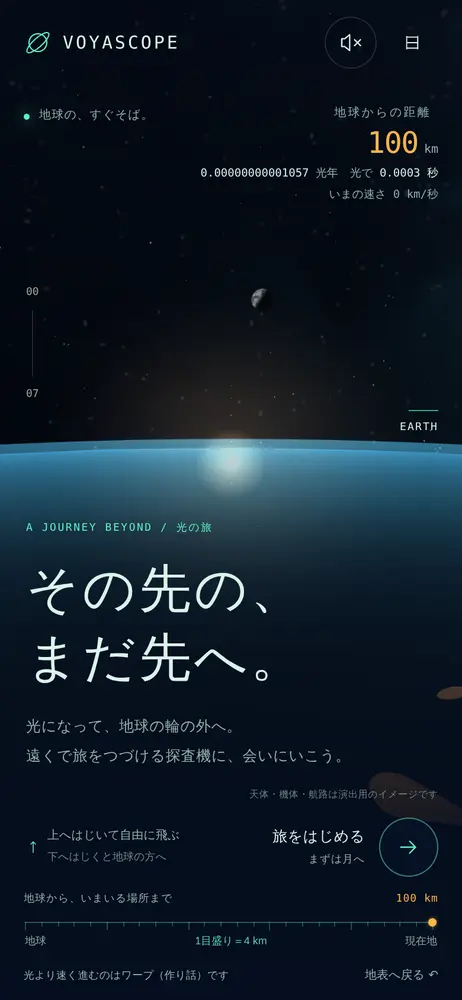
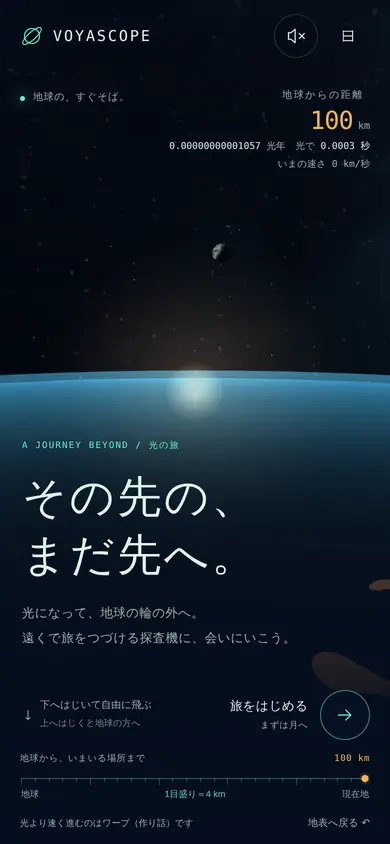
遠くを見る部屋：飛ぶスワイプの向きを逆に（下へスワイプで遠くへ・上へで地球の方へ）
オーナー（2026-10-04）：「スワイプの方向を逆にしたいな」→ 飛ぶ方向。

- 本体 v0（web/js/far/fly.js・room.js）と合わせた試作の両方。指でもマウスのドラッグでも同じ向き
- 案内の文・矢印と読み上げの説明も直した（スマホ：「↓ 下へスワイプして飛ぶ」「下へはじいて自由に飛ぶ」）
- PC のホイール（奥へ回すと遠くへ）と ↑↓ キーはそのまま。Mac のトラックパッド（ナチュラル）では、2本の指を下へで遠くへ＝スマホと同じ向き
- そばで観測中のなぞり（まわりから眺める）はそのまま
- 試作：下へなぞったときにページの引き下ろしが起きないよう overscroll-behavior: none
- 確かめたこと：スマホ 390×844・PC 1440×900 で、下へなぞると遠くへ・上へで地球の方へ（本体 v0 と試作）、ホイールを奥へで遠くへ、ウェッブのそばでは飛ばない。テスト 86件・検証・読み込み量も通る。エラーなし
- 記録：タスク013・far-room-feel.md §7-9。写真：far-room/sp-2-start.png・far-room-visual/merged-sp-1-start.webp を差し替え

Claude-Session: https://claude.ai/code/session_018QcvrPpxiBmPj3b7sKfVgy

diff --git a/docs/design/far-room-visual-merged.html b/docs/design/far-room-visual-merged.html
@@ -25,7 +25,7 @@
   color-scheme: dark;
 }
 * { box-sizing: border-box; }
-html { background: var(--navy-900); }
+html { background: var(--navy-900); overscroll-behavior: none; } /* 下へなぞって飛ぶので、ページの引き下ろし（再読み込み）を起こさない */
 body { margin: 0; background: var(--navy-900); color: var(--text); font-family: var(--body); font-size: 14px; line-height: 1.6; -webkit-text-size-adjust: 100%; }
 button, a { -webkit-tap-highlight-color: transparent; touch-action: manipulation; }
 button { font: inherit; color: inherit; cursor: pointer; min-height: 44px; min-width: 44px; padding: 0; border: 0; background: none; }
@@ -340,7 +340,7 @@ dialog .sub { margin: 0 0 14px; font-size: 12px; color: var(--dim); }
 <main>
   <section id="journey" class="journey" data-mode="intro" aria-labelledby="page-title">
     <h1 id="page-title" class="sr-only">遠くを見る部屋（合わせた試作）</h1>
-    <div id="viewport" class="viewport" tabindex="0" role="group" aria-label="宇宙を飛ぶ画面。上へスワイプか ↑ キーで遠くへ、下へスワイプか ↓ キーで地球の方へ。Home キーで地表へ戻る" aria-describedby="warp-note">
+    <div id="viewport" class="viewport" tabindex="0" role="group" aria-label="宇宙を飛ぶ画面。下へスワイプか ↑ キーで遠くへ、上へスワイプか ↓ キーで地球の方へ。Home キーで地表へ戻る" aria-describedby="warp-note">
       <canvas id="space" aria-hidden="true"></canvas>
     </div>
     <div class="vignette" aria-hidden="true"></div>
@@ -393,7 +393,7 @@ dialog .sub { margin: 0 0 14px; font-size: 12px; color: var(--dim); }
     <div class="travel-label" id="travel-label" aria-hidden="true"><span id="travel-word">地球を、離れる。</span><small id="travel-sub">NEXT / 月</small></div>
 
     <div class="journey-controls">
-      <p class="interaction-hint" id="hint"><svg class="i" viewBox="0 0 24 24" aria-hidden="true"><path d="M12 21V3m-4 4 4-4 4 4"/></svg><span id="hint-text">上へはじいて自由に飛ぶ<small>下へはじくと地球の方へ</small></span></p>
+      <p class="interaction-hint" id="hint"><svg class="i" viewBox="0 0 24 24" aria-hidden="true"><path id="hint-arrow" d="M12 3v18m-4-4 4 4 4-4"/></svg><span id="hint-text">下へはじいて自由に飛ぶ<small>上へはじくと地球の方へ</small></span></p>
       <button type="button" id="primary" class="primary">
         <span class="primary-text"><span id="primary-label">旅をはじめる</span><small id="primary-sub">まずは月へ</small></span>
         <span class="arrow" aria-hidden="true"><svg class="i" viewBox="0 0 24 24"><path d="M4 12h15m-6-6 6 6-6 6"/></svg></span>
@@ -691,7 +691,7 @@ const journey = $("journey"), viewport = $("viewport"), canvas = $("space");
 const reduceQuery = matchMedia("(prefers-reduced-motion: reduce)");
 let reduce = reduceQuery.matches;
 const coarse = matchMedia("(pointer: coarse)").matches;
-if (!coarse) $("hint-text").innerHTML = "ホイールか ↑ キーで自由に飛ぶ<small>↓ キーで地球の方へ。Home で地表へ</small>";
+if (!coarse) { $("hint-text").innerHTML = "ホイールか ↑ キーで自由に飛ぶ<small>↓ キーで地球の方へ。Home で地表へ</small>"; $("hint-arrow").setAttribute("d", "M12 21V3m-4 4 4-4 4 4"); }
 $("look-hint-text").textContent = coarse ? "指でなぞって、まわりから眺める" : "ドラッグか ← → キーで、まわりから眺める";
 const say = (t) => { $("announcer").textContent = t; };
 
@@ -1907,7 +1907,8 @@ viewport.addEventListener("pointermove", (e) => {
     wake();
     return;
   }
-  const dy = pointer.y - e.clientY; pointer.y = e.clientY;
+  // 下へなぞると遠くへ（宇宙を手前へ引き寄せる向き。2026-10-04 オーナー）。上へなぞると地球の方へ
+  const dy = e.clientY - pointer.y; pointer.y = e.clientY;
   push(dy * TUNE.SWIPE_GAIN);
 });
 const endDrag = (e) => { if (pointer && pointer.id === e.pointerId) { pointer = null; wake(); } };

diff --git a/web/js/far/fly.js b/web/js/far/fly.js
@@ -1,5 +1,5 @@
 // 遠くを見る部屋：光になって飛ぶ（体感の案 D。docs/design/far-room-feel.md）
-// 位置は「地球からの距離の桁」（log10 km）で持つ。上へスワイプで遠くへ、下へスワイプで戻る。
+// 位置は「地球からの距離の桁」（log10 km）で持つ。下へスワイプで遠くへ、上へスワイプで戻る（2026-10-04 オーナー）。
 // はじく強さで速さが変わり、約1秒で止まる（試作と同じ）。光より速く進むのはワープ（作り話）で、
 // 右上の「光で◯秒」が本当の光の速さ。動きを減らす設定では、星を流さず、押した場所へすぐ移る
 import { C_KM_S, LIGHT_DAY_KM, kmFullJa, kmShortJa, lightTimeJa, lightYearsJa } from "./distance.js";
@@ -46,7 +46,7 @@ export function createFly(root, { stops: initialStops, reduceMotion = false, coa
       <span class="fly-sub mono" data-hud="lt"></span>
       <span class="fly-warp mono" data-hud="warp">停止中</span>
     </div>
-    <div class="fly-hint" aria-hidden="true">${coarse ? "↑ 上へスワイプして飛ぶ" : "↑ ホイールか ↑ キーで飛ぶ"}</div>
+    <div class="fly-hint" aria-hidden="true">${coarse ? "↓ 下へスワイプして飛ぶ" : "↑ ホイールか ↑ キーで飛ぶ"}</div>
     <div class="fly-card" data-off="true" aria-live="polite"></div>`;
   const cv = root.querySelector("canvas");
   const ctx = cv.getContext("2d");
@@ -114,7 +114,7 @@ export function createFly(root, { stops: initialStops, reduceMotion = false, coa
   });
   root.addEventListener("pointermove", (e) => {
     if (!drag) return;
-    const dy = drag.y - e.clientY;
+    const dy = e.clientY - drag.y; // 下へなぞると遠くへ（宇宙を手前へ引き寄せる向き）
     drag.y = e.clientY;
     push(dy * 0.004);
   });

diff --git a/web/js/far/room.js b/web/js/far/room.js
@@ -67,7 +67,7 @@ export async function createFarRoom({ events = [], onClose = () => {} } = {}) {
     <div class="far-scroll">
       <section class="far-fly-wrap" aria-labelledby="far-fly-title">
         <h3 id="far-fly-title" class="visually-hidden">光になって飛ぶ</h3>
-        <div class="far-fly" tabindex="0" aria-label="遠くへ飛ぶ画面。上へスワイプか ↑ キーで遠くへ、下へスワイプか ↓ キーで地球へ戻る。Home キーで地表へ"></div>
+        <div class="far-fly" tabindex="0" aria-label="遠くへ飛ぶ画面。下へスワイプか ↑ キーで遠くへ、上へスワイプか ↓ キーで地球へ戻る。Home キーで地表へ"></div>
         <div class="far-fly-foot">
           <button type="button" class="btn" data-far-reset>地表へ戻る</button>
           <button type="button" class="btn" data-far-ladder>↓ 距離のはしご（一覧）</button>

diff --git a/docs/roadmap.md b/docs/roadmap.md
@@ -2,7 +2,7 @@
 
 > **いつでもここを見れば、どこまで進んだか・次に何をするかが分かる**ように保つ。
 > タスクが終わるたびに Claude Code がチェックを付けて更新する（PR に含める）。
-> 最終更新：2026-10-04（JPL SSD から返事：探査機の距離（Horizons の計算値）を、丸めた値・取得日・出典つきで出してよい。出典は SSD の形、軌道のもとのデータを出した機関（ESA・JAXA など）も示す。取り方は Fair Use に合わせ、1回で先の数週間ぶんをもらって週1回だけ取り直す案に。合わせた試作：スマホで名前・英名に模型や黄色い線が重ならないように直し、そばで観測中はなぞって模型のまわりから眺められるようにした（離れるときは「その先へ」が点滅）。合わせた試作の模型を Codex の新しい模型（公式を参考にしたイメージ）に入れ替え、光と影を自然にし、ジュノー（木星でスイングバイ）を足した。PC の一覧のタブを、文字を大きくしても1行に入るように＝PR #32。C17 を確認：ジュノーは運用中（2026年5月1日に衛星テーベを撮影）→ カードを足して10機に。C18 を確認：公式の3Dモデルは NASA の6つ（7機ぶん）だけで、1機 3〜9MB。ESA・JAXA は作り替えに許可が要る → 10機とも Codex にコードの模型を頼む依頼文を作った（オーナーの判断待ち）。遠くを見る部屋の見た目の合わせた試作：操作感は Claude 案、表示は Codex 案、天体のまわりでスイングバイする航路、地球は出発のあとうしろの窓で見る。出発は日本の上空の夜からに決定。探査機の公式3Dモデルの有無と利用条件を C18 でチャッピーに依頼（使えなければ Codex に模型を頼む）。本体に入れるかはオーナーの判断待ち。2026-10-03：遠くを見る部屋 v0＝タスク013：入口「遠くを見る」、光になって飛ぶ画面と距離のはしご、探査機9機のカード（出典つき）。月・太陽・惑星までの距離はブラウザで計算し、ウェッブ・ニュー・ホライズンズは公式の値。JPL の許可が要る4機の距離と、ジュノー（C17）はあとで。C15 を確認：今日の地球の画像（GIBS）と宇宙天気（Kp）はブラウザから直接読んでよい。C14 を確認：探査機の距離（JPL Horizons）を自分のサイトに出すには JPL の許可が要る → オーナーが問い合わせ済み、返事待ち。ISS の乗員を実データに＝C10：3チーム・11人のカード。帰還予定が月まで・年までのときの滞在の判定を直した。スマホで軽くする＝タスク012：読み込みの順番を直し、遅い4G で「観測を開始」まで 7.9〜8.1秒 → 6.2〜6.5秒。読み込み量の上限を CI で守る。配色はいまのまま。2026-10-02：地球の上に表示切替（すべて／日本のみ／衛星のみ／打ち上げ予定のみ）を追加＝タスク011。遠くを見る部屋の体感の案と試作を追加。公式ページの見張りの半自動化と Cloudflare への移行を M9 として追加（案の今日の地球・宇宙天気・宇宙にいる人は M10〜M12 に）。順番を M6 → M7 v0（遠くを見る部屋）→ M9 Cloudflare の検討に。世界の打ち上げを「参考」の印つきで追加＝M4 v1。目標と次の段階の案 [`docs/world-plan.md`](world-plan.md)）
+> 最終更新：2026-10-04（JPL SSD から返事：探査機の距離（Horizons の計算値）を、丸めた値・取得日・出典つきで出してよい。出典は SSD の形、軌道のもとのデータを出した機関（ESA・JAXA など）も示す。取り方は Fair Use に合わせ、1回で先の数週間ぶんをもらって週1回だけ取り直す案に。合わせた試作：スマホで名前・英名に模型や黄色い線が重ならないように直し、そばで観測中はなぞって模型のまわりから眺められるようにした（離れるときは「その先へ」が点滅）。飛ぶスワイプの向きを逆にした（下へスワイプで遠くへ。本体 v0 と試作の両方）。合わせた試作の模型を Codex の新しい模型（公式を参考にしたイメージ）に入れ替え、光と影を自然にし、ジュノー（木星でスイングバイ）を足した。PC の一覧のタブを、文字を大きくしても1行に入るように＝PR #32。C17 を確認：ジュノーは運用中（2026年5月1日に衛星テーベを撮影）→ カードを足して10機に。C18 を確認：公式の3Dモデルは NASA の6つ（7機ぶん）だけで、1機 3〜9MB。ESA・JAXA は作り替えに許可が要る → 10機とも Codex にコードの模型を頼む依頼文を作った（オーナーの判断待ち）。遠くを見る部屋の見た目の合わせた試作：操作感は Claude 案、表示は Codex 案、天体のまわりでスイングバイする航路、地球は出発のあとうしろの窓で見る。出発は日本の上空の夜からに決定。探査機の公式3Dモデルの有無と利用条件を C18 でチャッピーに依頼（使えなければ Codex に模型を頼む）。本体に入れるかはオーナーの判断待ち。2026-10-03：遠くを見る部屋 v0＝タスク013：入口「遠くを見る」、光になって飛ぶ画面と距離のはしご、探査機9機のカード（出典つき）。月・太陽・惑星までの距離はブラウザで計算し、ウェッブ・ニュー・ホライズンズは公式の値。JPL の許可が要る4機の距離と、ジュノー（C17）はあとで。C15 を確認：今日の地球の画像（GIBS）と宇宙天気（Kp）はブラウザから直接読んでよい。C14 を確認：探査機の距離（JPL Horizons）を自分のサイトに出すには JPL の許可が要る → オーナーが問い合わせ済み、返事待ち。ISS の乗員を実データに＝C10：3チーム・11人のカード。帰還予定が月まで・年までのときの滞在の判定を直した。スマホで軽くする＝タスク012：読み込みの順番を直し、遅い4G で「観測を開始」まで 7.9〜8.1秒 → 6.2〜6.5秒。読み込み量の上限を CI で守る。配色はいまのまま。2026-10-02：地球の上に表示切替（すべて／日本のみ／衛星のみ／打ち上げ予定のみ）を追加＝タスク011。遠くを見る部屋の体感の案と試作を追加。公式ページの見張りの半自動化と Cloudflare への移行を M9 として追加（案の今日の地球・宇宙天気・宇宙にいる人は M10〜M12 に）。順番を M6 → M7 v0（遠くを見る部屋）→ M9 Cloudflare の検討に。世界の打ち上げを「参考」の印つきで追加＝M4 v1。目標と次の段階の案 [`docs/world-plan.md`](world-plan.md)）
 
 **記号**：✅ 完了　🔨 作業中　⏭ 次にやる　⏳ 調査・判断待ち　・未着手
 

diff --git a/docs/tasks/013-far-room.md b/docs/tasks/013-far-room.md
@@ -8,7 +8,7 @@
 - **入口**：地球の上の表示切替の右に「遠くを見る ›」（PC）。スマホは表示切替の下の右。ほかの部屋へ行くボタンなので、表示切替（ミント）と分けてアンバーにした。押すと画面いっぱいの部屋が開く
   - 閉じ方：「地球へ戻る」・Esc・ブラウザの「戻る」。`#far` つきの URL で開くと、「観測を開始」のあとすぐに部屋が開く
   - 部屋の部品は、入口にマウスを乗せた・指で触れた・フォーカスしたときから読み始める（起動では読まない）。開いているあいだは地球の描画を止める
-- **光になって飛ぶ**：上へスワイプ（PC はホイールか ↑ キー）で遠くへ、下へで戻る。はじく強さで速さが変わり、約1秒で止まる（試作と同じ）
+- **光になって飛ぶ**：下へスワイプ（PC はホイールを奥へ回すか ↑ キー）で遠くへ、上へで戻る（2026-10-04 オーナー：スワイプの向きを逆にした。はじめは上へスワイプで遠くへ）。はじく強さで速さが変わり、約1秒で止まる（試作と同じ）
   - 右上：地球からの距離（km・光年）、光で何秒、速さ。光より速いときは「ワープ中：光の◯倍（作り話）」
   - 通り過ぎた場所のカード（月・ウェッブ・太陽・ベピコロンボ・パーサヴィアランス・ニュー・ホライズンズ・1光日）。探査機は「カードを見る」でくわしいカードへ
   - 下の物差し：0〜いまの距離。遠くへ行くほど縮尺が変わり、通り過ぎた場所（▼）は左へ押しつぶされる
